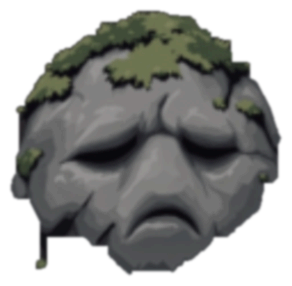
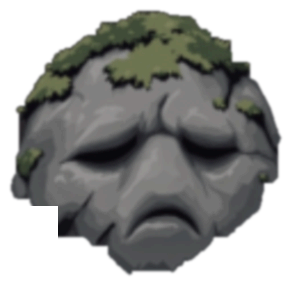
Troll rockface #4: solid bottom, remove the bottom-left stem (no fade)
Owner: the gradient feather faded the whole bottom; they only wanted the small
protruding bit gone. Drop the feather (solid bottom) and surgically erase the
thin grass-stem protrusion hanging off the bottom-left; the rock's real chin is
kept. Darkness (bright 0.73) unchanged.

Claude-Session: https://claude.ai/code/session_01CgGUkw5aUKtUAGfWeZXo2s

Changed region(s): [[0.0925, 0.6993, 0.2158, 0.951]]

diff --git a/dist/artifact.html b/dist/artifact.html
@@ -1484,8 +1484,8 @@
 <div id="ui"></div>
 <script>
 'use strict';
-window.__ASSET_VER = "cta3l6";
-globalThis.__BUILD__ = "local 07-25 07:42";
+window.__ASSET_VER = "1bjwwip";
+globalThis.__BUILD__ = "local 07-25 07:49";
 
 // ===================== src/config.js =====================
 const __m_config = (function () {

diff --git a/dist/index.html b/dist/index.html
@@ -1490,8 +1490,8 @@
 <div id="ui"></div>
 <script>
 'use strict';
-window.__ASSET_VER = "cta3l6";
-globalThis.__BUILD__ = "local 07-25 07:42";
+window.__ASSET_VER = "1bjwwip";
+globalThis.__BUILD__ = "local 07-25 07:49";
 
 // ===================== src/config.js =====================
 const __m_config = (function () {
